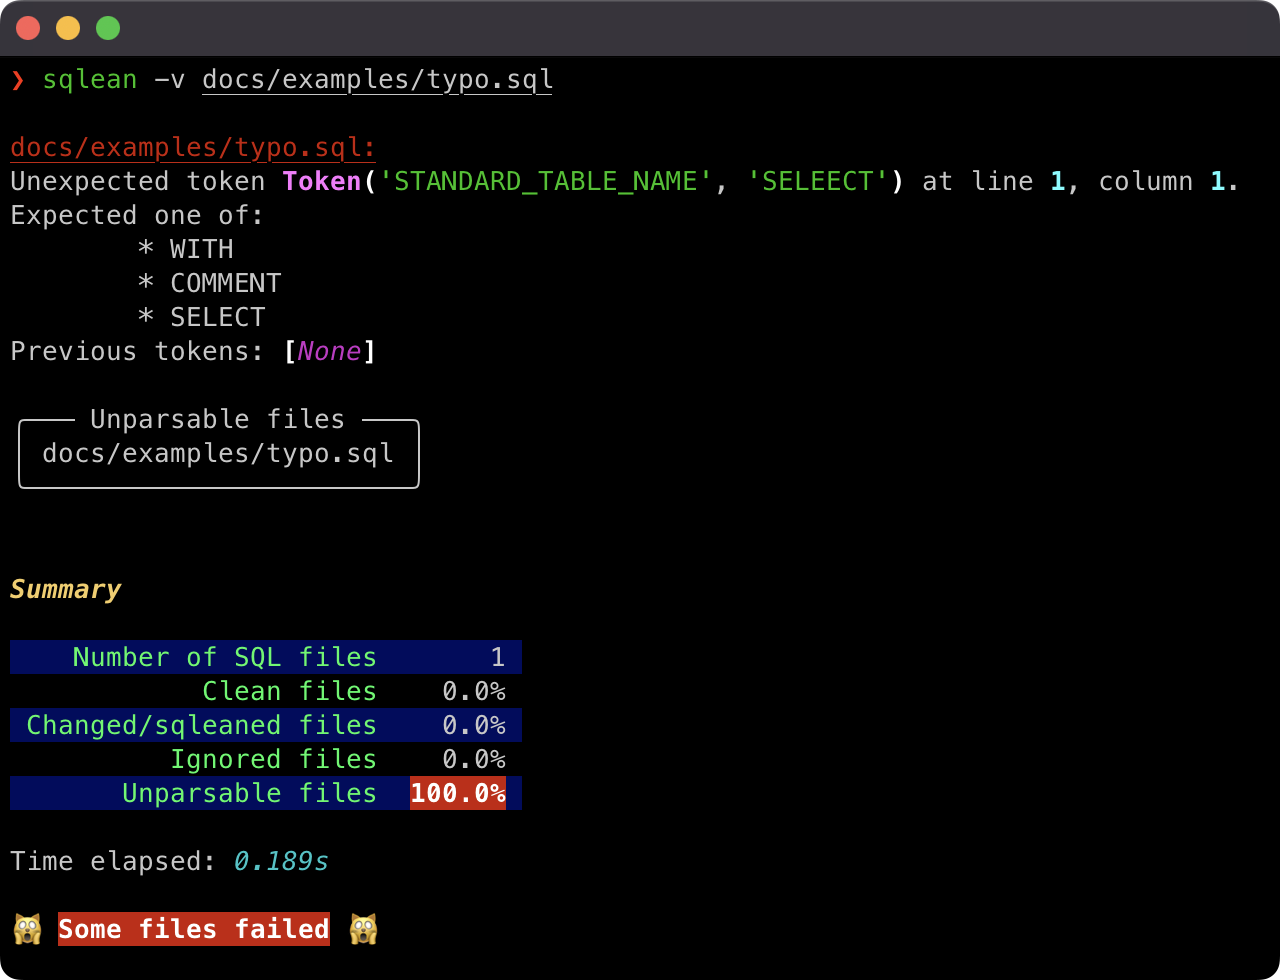
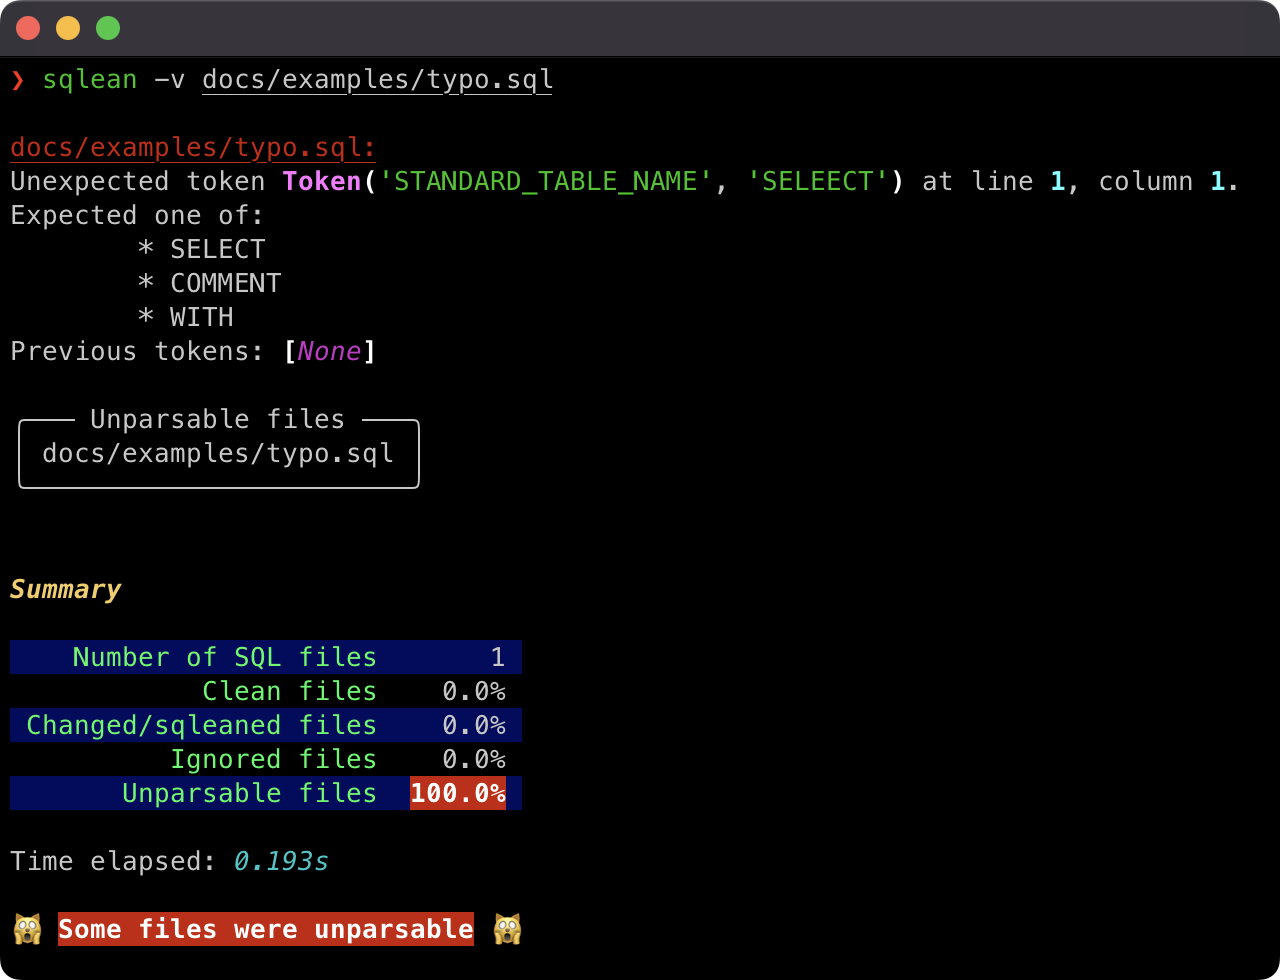
Error on change (#100)
* return a status code 1 when a file has been changed, so that it will
  be failure in CI
* change the status updates

diff --git a/sqlean/main.py b/sqlean/main.py
@@ -68,15 +68,24 @@ def main(
         elif path.is_file():
             sqlean_file(path, stats, sql_parser, options)
     stats.print_summary(options)
-    is_passed = stats.is_passed()
-    if is_passed:
-        rprint("🧘 [bold white on green]All files passed[/bold white on green] 🧘")
-    elif is_passed is False:
-        rprint("🙀 [bold white on red]Some files failed[/bold white on red] 🙀")
+
+    red_style = "bold white on red"
+    orange_style = "bold white on #e07800"
+    green_style = "bold white on green"
+    if stats.num_changed > 0:
+        rprint(f"👍 [{orange_style}]Some files were changed[/{orange_style}] 👍")
+    if stats.num_unparsable > 0:
+        rprint(f"🙀 [{red_style}]Some files were unparsable[/{red_style}] 🙀")
+    if stats.num_dirty > 0:
+        rprint(f"🙀 [{red_style}]Some files were dirty[/{red_style}] 🙀")
+    if stats.num_changed > 0 or stats.num_unparsable > 0 or stats.num_dirty > 0:
         raise typer.Exit(code=1)
-    elif is_passed is None:
+
+    if stats.num_files == 0:
         typer.echo("🤷 No files found 🤷")
         raise typer.Exit(code=1)
+
+    rprint(f"🧘 [{green_style}]All files passed[/{green_style}] 🧘")
 
 
 def sqlean_recursive(
@@ -133,6 +142,7 @@ def sqlean_unignored_file(
         if options.write_ignore:
             write_ignore_header(target)
             stats.num_ignored += 1
+            stats.num_changed += 1
             stats.newly_ignored_files.append(target)
         else:
             stats.num_unparsable += 1

diff --git a/tests/test_main.py b/tests/test_main.py
@@ -21,7 +21,8 @@ def test_target__invalid() -> None:
 def test_dryrun__runs_on_directory() -> None:
     result = runner.invoke(app, ["-d", "."])
     assert result.exit_code == 1
-    assert "Some files failed" in result.stdout
+    assert "Some files were unparsable" in result.stdout
+    assert "Some files were dirty" in result.stdout
 
 
 def test_dryrun__missing_target() -> None:
@@ -69,7 +70,8 @@ def test_dryrun__fail() -> None:
     assert "── Unparsable files ──" in result.stdout
     assert "│ tests/fixtures/fail/dir_1/unparsable.sql" in result.stdout
     assert "Summary" in result.stdout
-    assert "Some files failed" in result.stdout
+    assert "Some files were unparsable" in result.stdout
+    assert "Some files were dirty" in result.stdout
 
 
 def test_dryrun_verbose__fail() -> None:
@@ -130,8 +132,9 @@ def test_write_ignore() -> None:
 
         # run write-ignore once
         result = runner.invoke(app, ["--write-ignore", tmpdir])
-        assert result.exit_code == 0
+        assert result.exit_code == 1
         assert "── Newly ignored files ──" in result.stdout
+        assert "Changed/sqleaned files  50.0" in result.stdout
         assert "Ignored files  33.3%" in result.stdout
         assert "Unparsable files   0.0%" in result.stdout
         with open(unparsable_file, "rt", encoding="utf-8") as reader:

diff --git a/sqlean/stats.py b/sqlean/stats.py
@@ -2,7 +2,7 @@
 from dataclasses import dataclass, field
 from pathlib import Path
 import time
-from typing import List, Optional
+from typing import List
 
 from rich import print as rprint
 from rich.console import Console
@@ -37,12 +37,6 @@ class Stats:
     def get_time_elapsed(self) -> str:
         """Return the time elapsed since the start"""
         return f"{round(time.time() - self.start_time, 3)}s"
-
-    def is_passed(self) -> Optional[bool]:
-        """Return True if all files are now ok"""
-        if self.num_files == 0:
-            return None
-        return self.num_clean + self.num_changed + self.num_ignored == self.num_files
 
     def print_summary(self, options: Settings) -> None:
         """Prints a summary of the stats."""

diff --git a/tests/test_stats.py b/tests/test_stats.py
@@ -4,18 +4,6 @@ from sqlean.settings import Settings
 from sqlean.stats import Stats
 
 
-def test_stats__is_passed() -> None:
-    stats = Stats()
-    assert stats.is_passed() is None
-    stats.num_files = 2
-    assert not stats.is_passed()
-    stats.num_clean = 2
-    assert stats.is_passed()
-    stats.num_clean = 1
-    stats.num_ignored = 1
-    assert stats.is_passed()
-
-
 def test_stats__print_summary__no_files(capsys: CaptureFixture[str]) -> None:
     stats = Stats()
     stats.print_summary(options=Settings())
